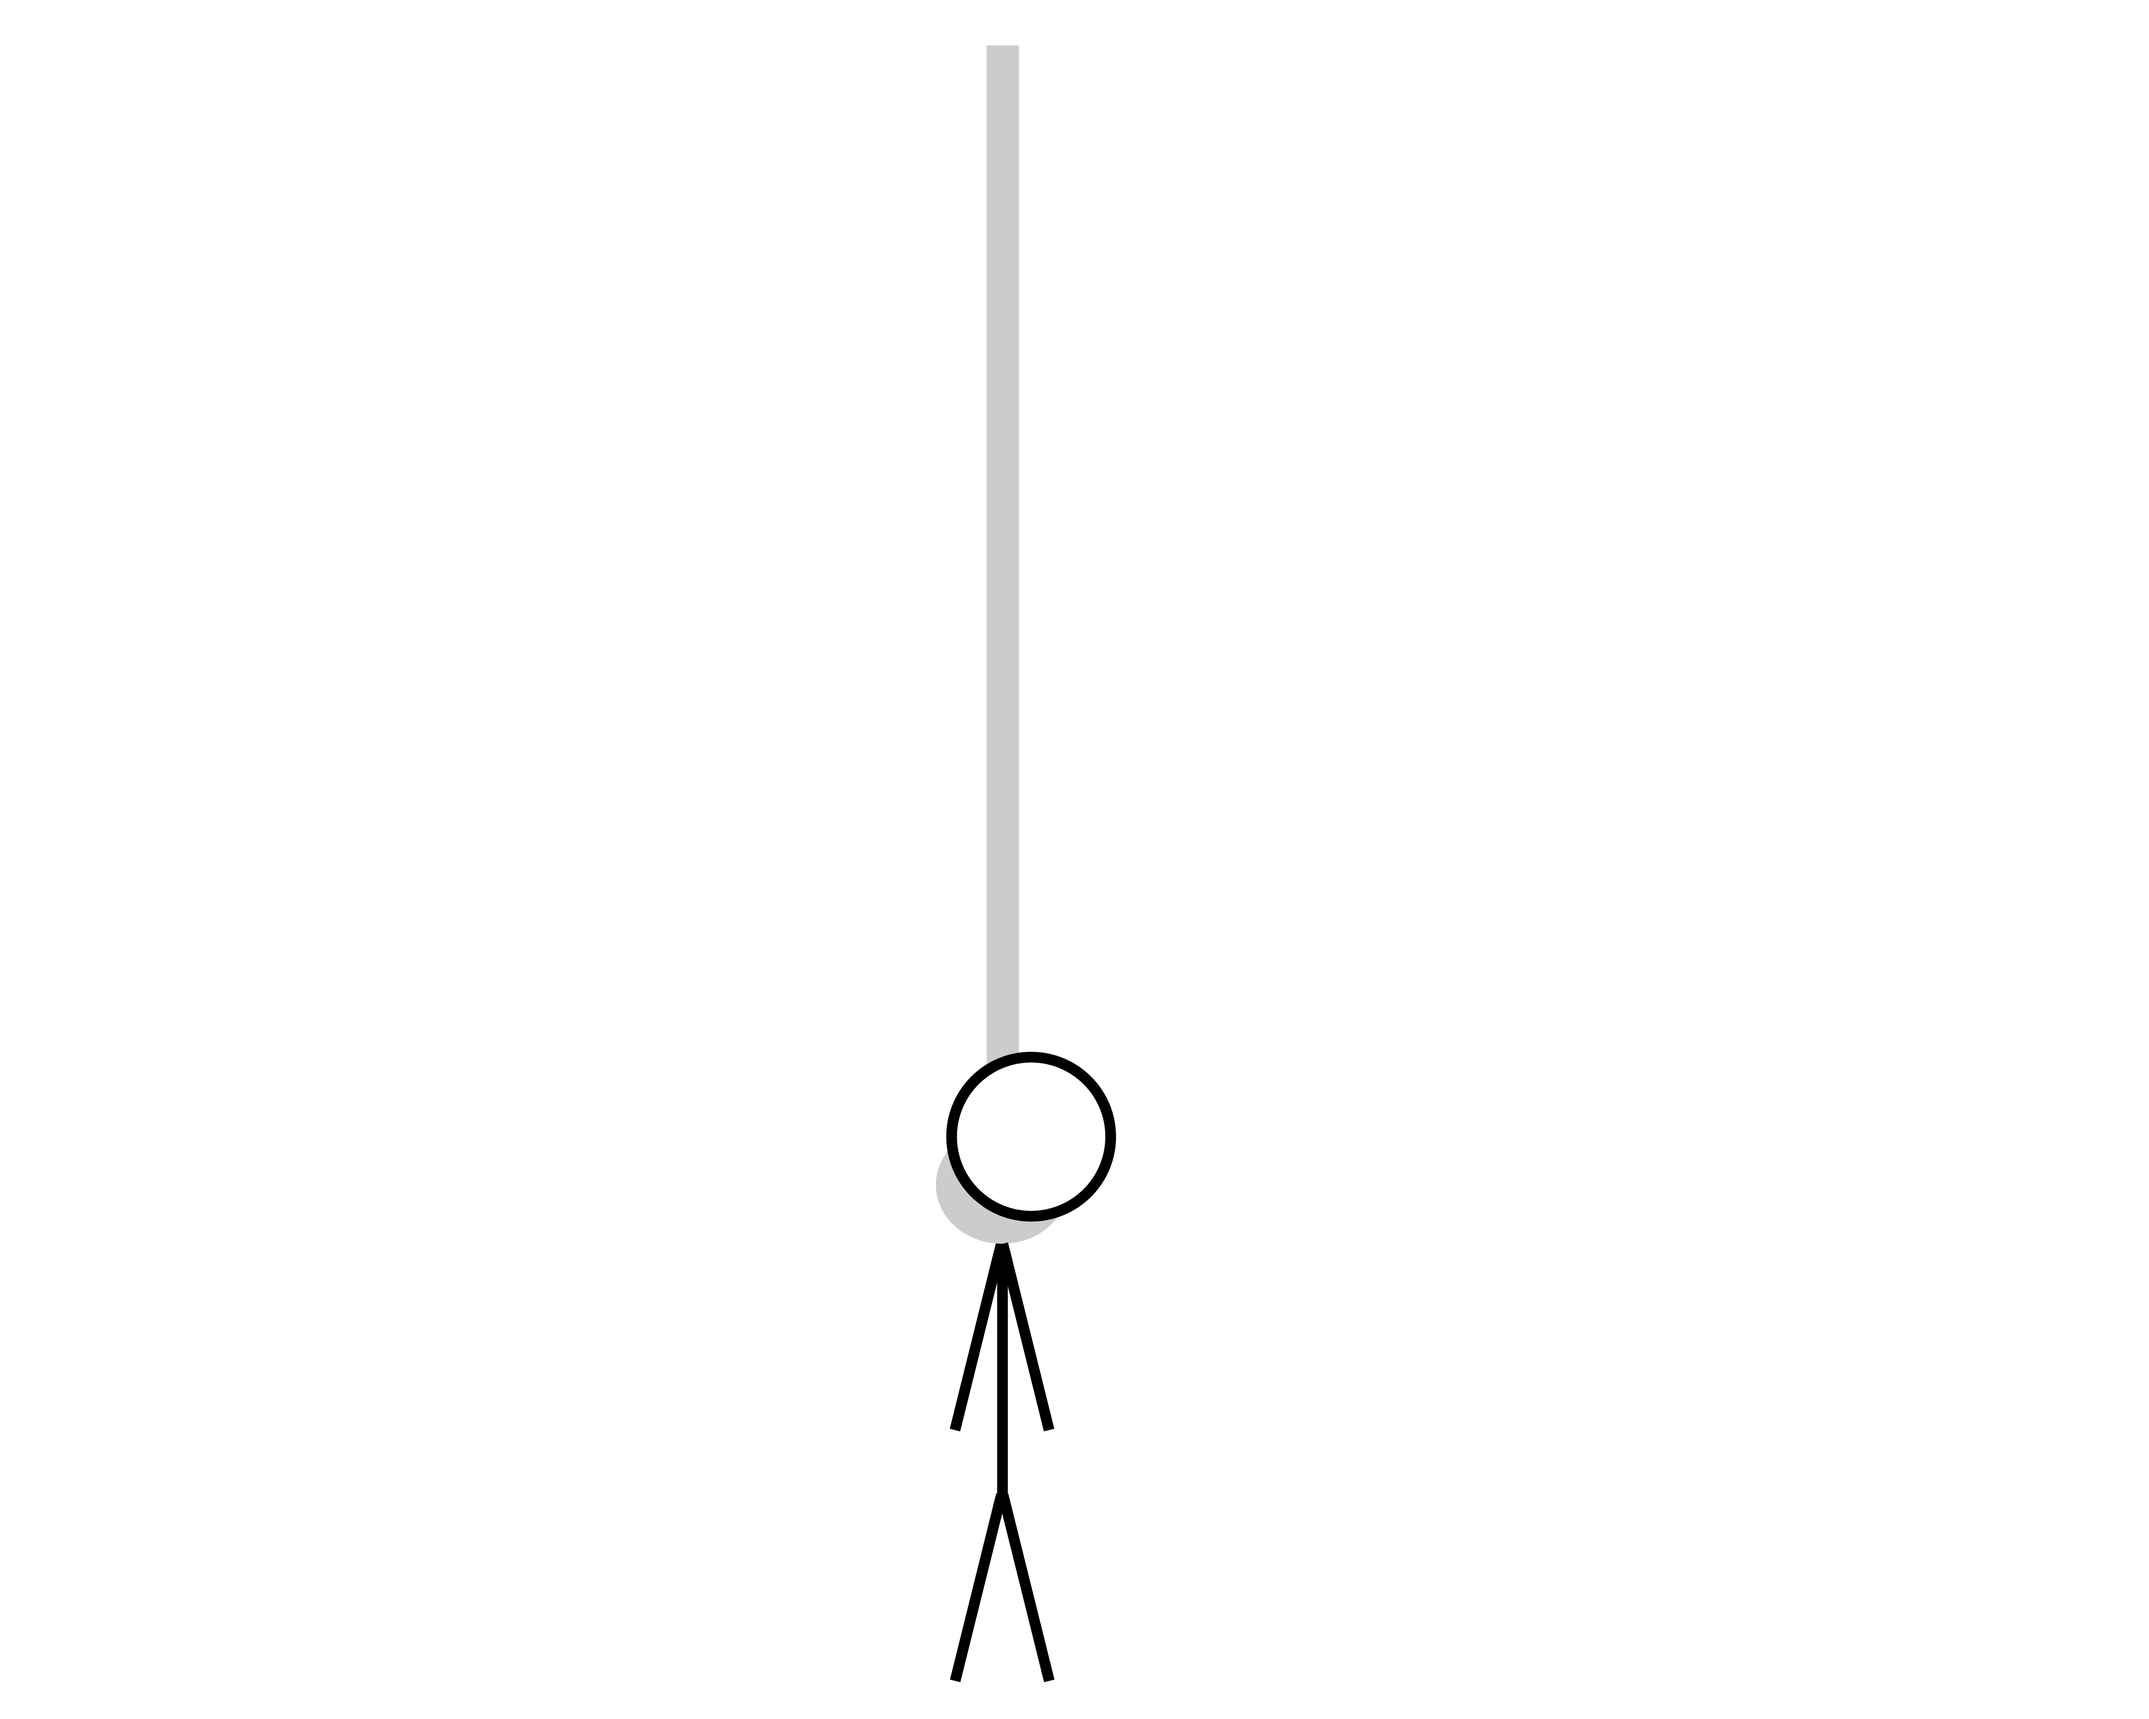
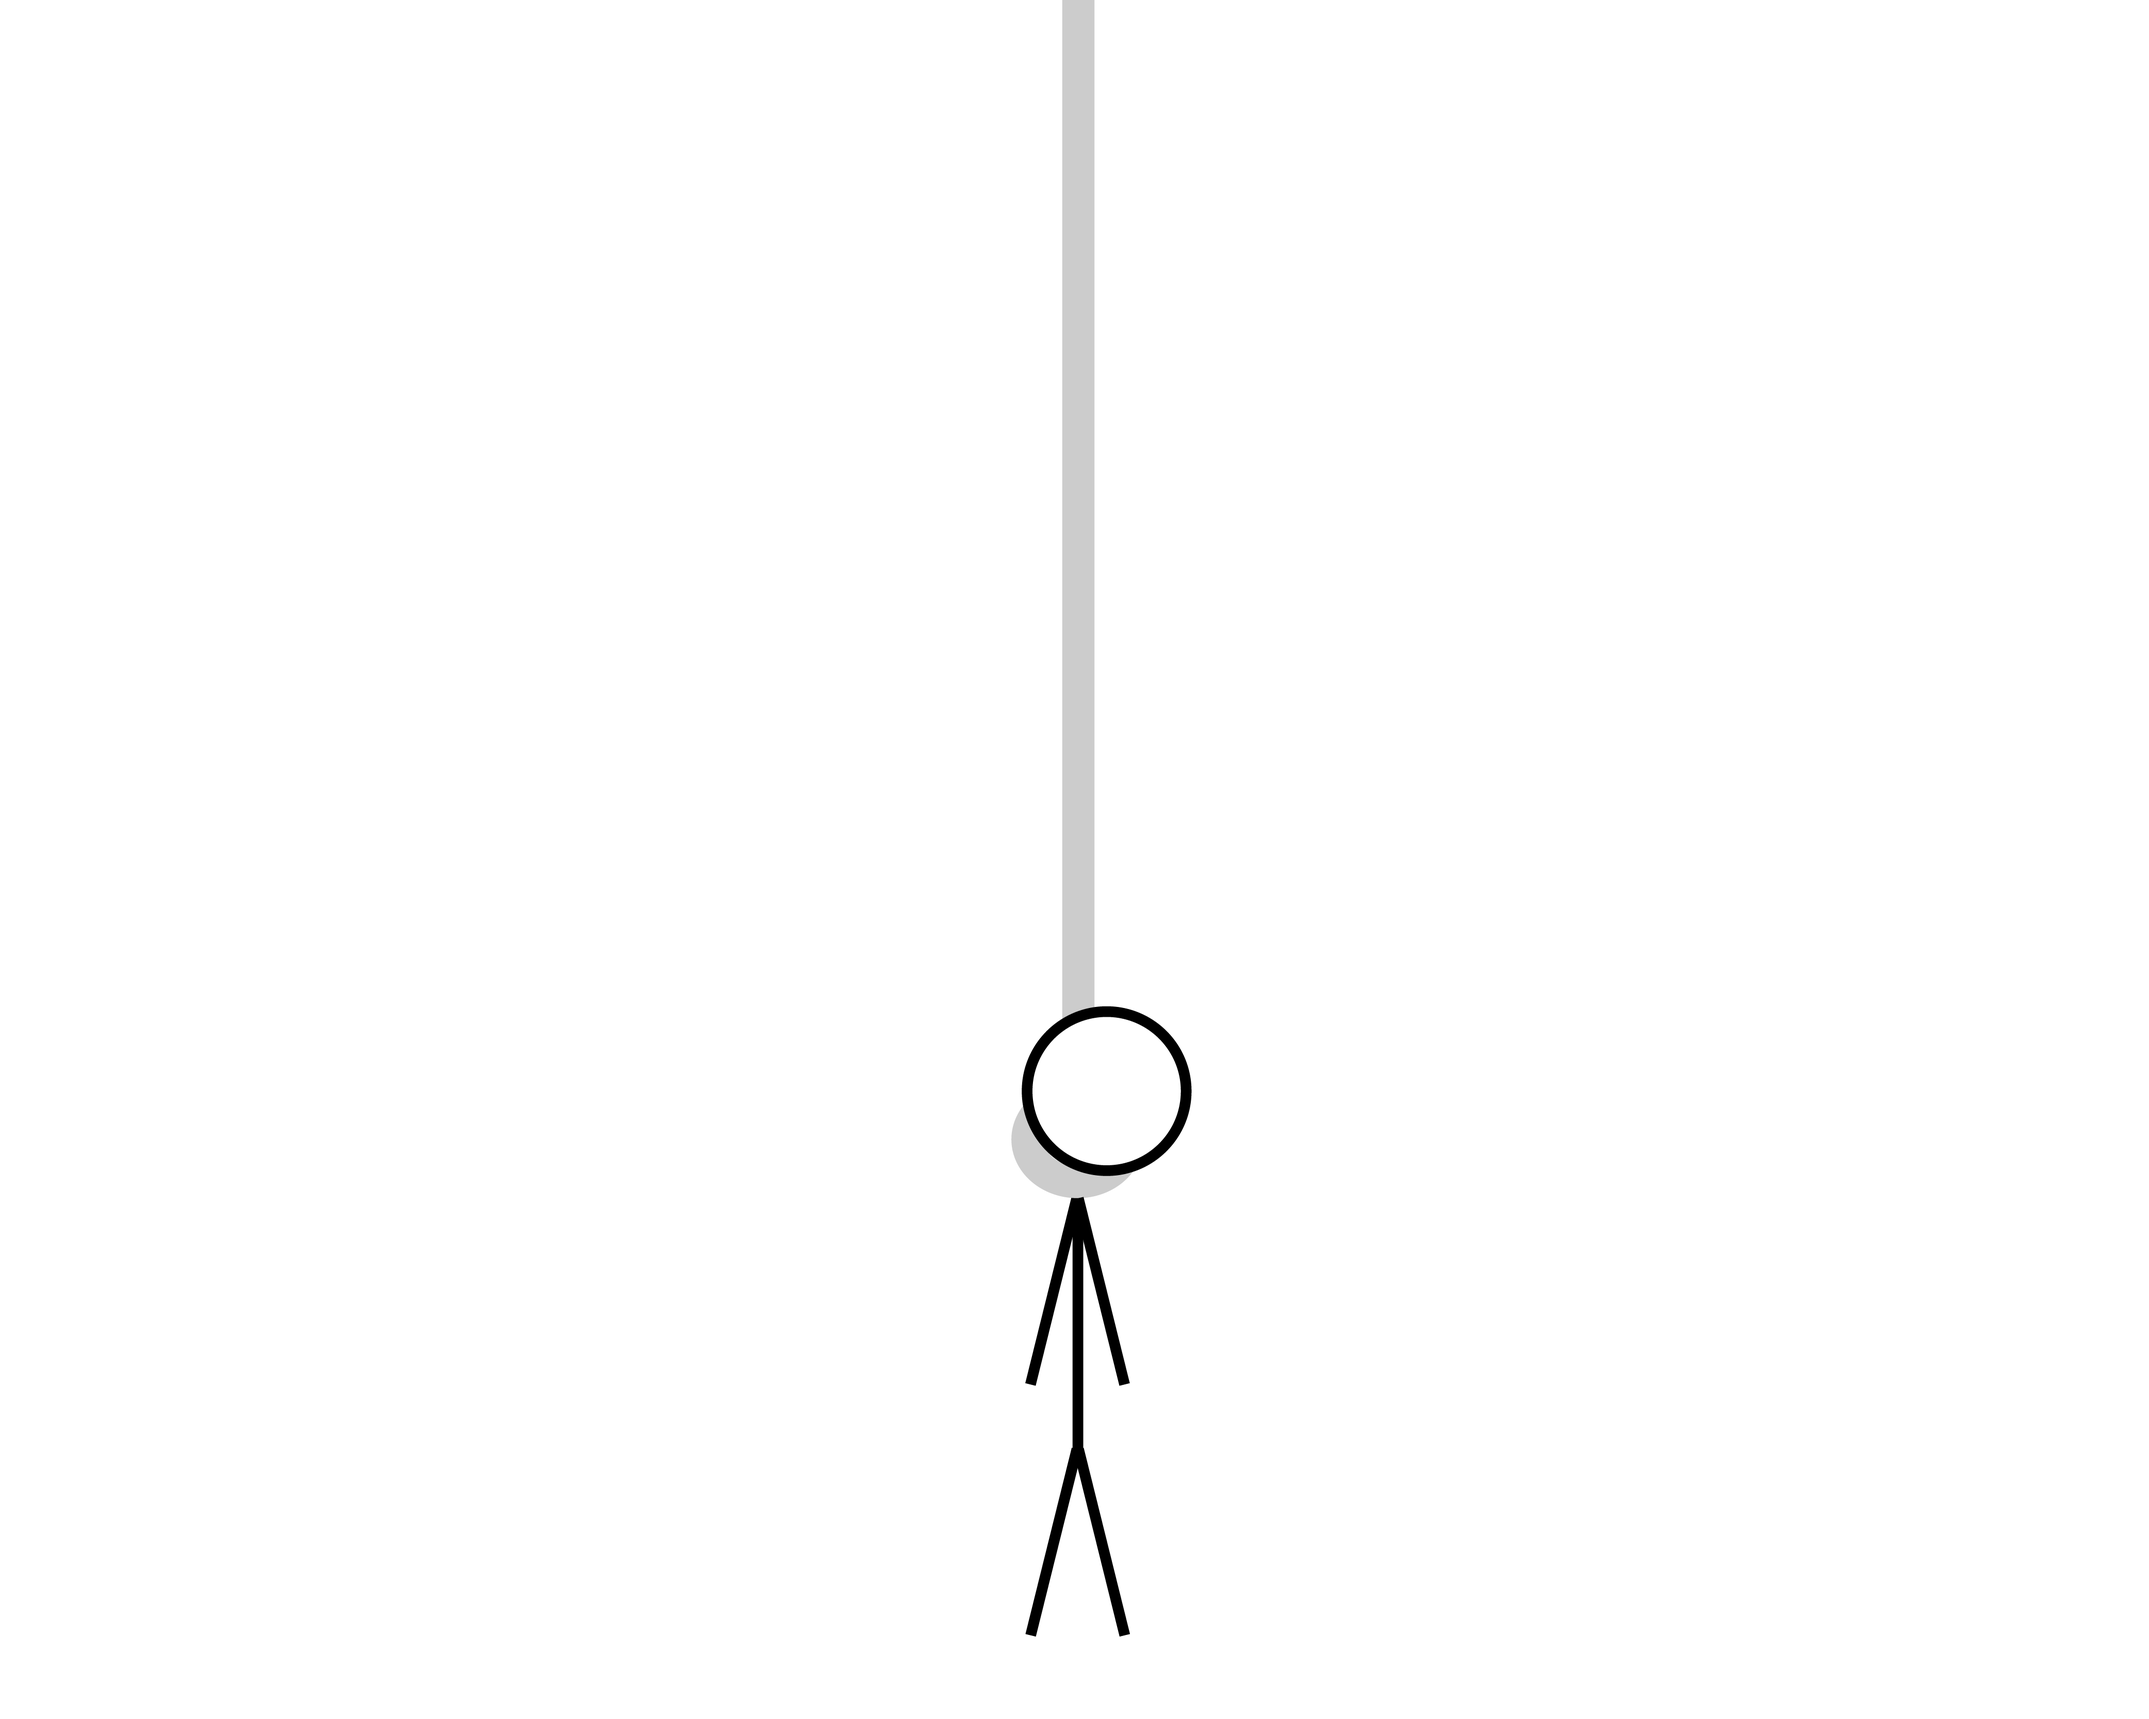
added loser picture

Changed region(s): [[0.4368, 0.0, 0.5616, 0.967]]

diff --git a/Challenge/Two/index.html b/Challenge/Two/index.html
@@ -10,7 +10,7 @@
 </head>
 <body>
     <main>
-        <div class="page active" id="home">
+        <div class="page" id="home">
             <h1>HANGMAN</h1>
             <button class="startButton" id="enterWord">let me pick</button>
             <button class="startButton" id="providedWord">pick for me</button>
@@ -66,7 +66,9 @@
         <div class="page" id="win">
             <h1>YOU WON</h1>
         </div>
-        <div class="page" id="lose">
+        <div class="page active" id="lose">
+            <img id="man" src="images/LoseHanging.png" alt="hangman">
+            <img id="shadow" src="images/Shadow.png" alt="hangman shadow">
             <h1>YOU LOST</h1>
         </div>
     </main>

diff --git a/Challenge/Two/js/util.js b/Challenge/Two/js/util.js
@@ -46,7 +46,7 @@ export function loser(a) {
     var attempt = a;
     var currentStage = "stage" + (attempt + 1);
     var nextStage = "stage" + (attempt + 2);
-    if (attempt < 6) {
+    if (attempt < 5) {
         //Remove active class from current page.
         var current = document.getElementById(currentStage);
         console.log(currentStage);
@@ -58,5 +58,6 @@ export function loser(a) {
         console.log(attempt);  
       } else {
             screenSwitch("play", "lose");
+            console.log("else worked");
       }
 }

diff --git a/Challenge/Two/css/styles.scss b/Challenge/Two/css/styles.scss
@@ -117,7 +117,14 @@ h1, h2, h3, h4, h5, h6 {
     height: 100vh;
     width: 100vw;
     background-color: $lightBlue;
+    display: flex;
+    flex-direction: column;
+    img {
+        height: 30em;
+        z-index: 0;
+    }
     h1 {
+        position: absolute;
         font-size: 65px;
         padding: 2em 0 .5rem 0;
     }

diff --git a/Challenge/Two/css/styles.css b/Challenge/Two/css/styles.css
@@ -111,8 +111,15 @@ h1, h2, h3, h4, h5, h6 {
   height: 100vh;
   width: 100vw;
   background-color: #1c93a0;
+  display: flex;
+  flex-direction: column;
+}
+#lose img {
+  height: 30em;
+  z-index: 0;
 }
 #lose h1 {
+  position: absolute;
   font-size: 65px;
   padding: 2em 0 0.5rem 0;
 }
